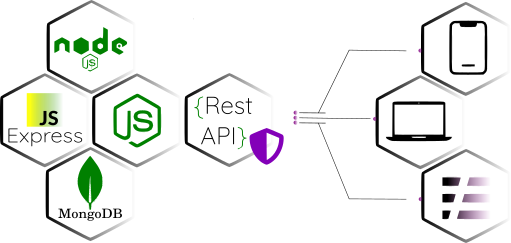
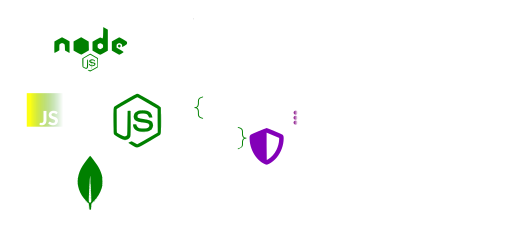
alteracao de cores e mudanda area projetos

diff --git a/src/app/ui/dashboard/projetos.tsx b/src/app/ui/dashboard/projetos.tsx
@@ -42,30 +42,29 @@ export default function Projetos(){
     }
 
     return (
-        <div id="Projetos" className='border-l-2 border-ws-new text-7xl flex w-screen justify-center'>
+        <section className="text-white text-7xl w-screen h-screen justify-center items-center flex flex-col">
+            <div className="w-4/5 flex justify-end">Projetos</div>
+            <div id="Projetos" className='border-l-2 border-ws-new flex w-11/12 h-screen justify-around items-center flex-wrap'>
 
             <div onClick={()=>{ActiveProjeto('Portifolio')}} 
-                className={`${statePortifolio === 1?'animate-open_conteiner w-full overflow-clip cursor-pointer rounded-lg mx-2 flex  h-[80vh] bg-gradient-to-b from-transparent via-45% via-ws-new to-transparent items-center justify-center': 
-                                statePortifolio === 0?'w-64 max-sm:w-9 cursor-pointer rounded-lg mx-2 flex  h-[80vh] bg-gradient-to-b from-transparent via-45% via-ws-new to-transparent items-center justify-center': 
+                className={`${statePortifolio === 1?'animate-open_conteiner w-full overflow-clip cursor-pointer rounded-lg mx-2 flex  h-[80vh] items-center justify-center': 
+                                statePortifolio === 0?'w-52 cursor-pointer mx-2 flex h-[30vh] p-2 bg-ws-c': 
                                 statePortifolio ===2? 'hidden':''}`}>
-                <div className={`${statePortifolio === 1?'hidden': statePortifolio === 0?'rotate-[90deg] text-black max-sm:text-2xl  max-sm:font-bold -tracking-wide':''}`}>Portifolio</div>
+
+                <div className={`${statePortifolio === 1?'hidden': statePortifolio === 0?'flex w-full h-full justify-center items-end rotate-[90deg] bg-ws-new text-2xl text-black font-bold -tracking-wide':''}`}>Portifolio</div>
+
                 <div className={`${statePortifolio === 1?'block': statePortifolio === 0?'hidden':''}`}><InfoProjeto /></div>
+
             </div>
 
-            <div onClick={()=>{ActiveProjeto('RestAPI')}} className={`${stateRest === 1?'animate-open_conteiner w-full overflow-hidden cursor-pointer rounded-lg mx-2 flex  h-[80vh] bg-gradient-to-b from-transparent via-45% via-ws-new to-transparent items-center justify-center': 
-                stateRest === 0?'w-64 max-sm:w-9 cursor-pointer rounded-lg mx-2 flex  h-[80vh] bg-gradient-to-b from-transparent via-45% via-ws-new to-transparent items-center justify-center': 
+            <div onClick={()=>{ActiveProjeto('RestAPI')}} className={`${stateRest === 1?'animate-open_conteiner w-full overflow-hidden cursor-pointer rounded-lg mx-2 flex  h-[80vh] items-center justify-center': 
+                stateRest === 0?'cursor-pointer w-52 mx-2 flex  h-[30vh] p-2 items-start bg-ws-c': 
                 stateRest ===2? 'hidden':''}`}>
-                <div className={`${stateRest === 1?'hidden': stateRest === 0?'rotate-[90deg] max-sm:text-2xl text-black  max-sm:font-bold -tracking-wide':''}`}>RestAPI</div>
+                <div className={`${stateRest === 1?'hidden': stateRest === 0?'flex w-full h-full justify-center items-end rotate-[90deg] bg-ws-new text-2xl text-black font-bold -tracking-wide':''}`}>APIRestFull</div>
                 <div className={`${stateRest === 1?'block': stateRest === 0?'hidden':''}`}><RestAPI/></div>
             </div>
-
-            {/* <div className='w-64 cursor-pointer rounded-lg mx-2 flex  h-[80vh] bg-gradient-to-b from-transparent via-45% via-white to-transparent items-center justify-center'>
-                <div className='rotate-[90deg] -tracking-wide'>Breve</div>
-            </div>
-
-            <div className='w-64 cursor-pointer rounded-lg mx-2 flex  h-[80vh] bg-gradient-to-b from-transparent via-45% via-white to-transparent items-center justify-center'>
-                <div className='rotate-[90deg] -tracking-wide'>Breve</div>
-            </div> */}
         </div>
+        </section>
+
     )
 }

diff --git a/src/app/ui/dashboard/projetos/first_portifolio.tsx b/src/app/ui/dashboard/projetos/first_portifolio.tsx
@@ -9,7 +9,7 @@ export default function InfoProjeto(){
 
     return(
 
-        <div  className='text-lg  text-black mx-3'>
+        <div  className='text-lg  text-white mx-3'>
                 
             <div className={`grid grid-cols-2 grid-rows-1 justify-center items-center`}>
                 <Image src='/page.png' width={350} height={350} className='max-md:w-64 max-sm:w-36 max-[375px]:w-24' alt='First image my portifolio'/>
@@ -17,10 +17,10 @@ export default function InfoProjeto(){
             </div>
             
             <div className='flex justify-around text-xl max-md:text-sm max-sm:text-xs max-sm:flex-wrap py-5 max-[320px]:py-1' >
-                <span className='flex flex-row justify-center items-center max-sm:my-2'><FaJs/> : JavaScript</span>
-                <span className='flex flex-row justify-center items-center max-sm:my-2'><FaHtml5/> : Hypertext Markup Language</span>
-                <span className='flex flex-row justify-center items-center max-sm:my-2'><FaCss3/> : Cascading Style Sheets</span>
-                <span className='flex flex-row justify-center items-center max-sm:my-2'><FaReact/> : React</span>
+                <span className='flex flex-row justify-center items-center max-sm:my-2'><span className='text-ws-new'><FaJs/></span> : JavaScript</span>
+                <span className='flex flex-row justify-center items-center max-sm:my-2'><span className='text-ws-new'><FaHtml5/></span> : Hypertext Markup Language</span>
+                <span className='flex flex-row justify-center items-center max-sm:my-2'><span className='text-ws-new'><FaCss3/></span> : Cascading Style Sheets</span>
+                <span className='flex flex-row justify-center items-center max-sm:my-2'><span className='text-ws-new'><FaReact/></span> : React</span>
             </div>
 
             <div className='text-center text-lg max-md:text-sm max-sm:text-xs max-[320px]:text-[10px]' >
@@ -35,7 +35,7 @@ export default function InfoProjeto(){
                 
             </div>
 
-            <div className='flex py-5 text-2xl max-md:text-base max-[320px]:text-sm justify-center items-center'><FaLink onClick={Falin}/> <p onClick={Falin}>: https://wennedsilva.netlify.app/</p></div>
+            <div className='flex py-5 text-2xl max-md:text-base max-[320px]:text-sm justify-center items-center text-ws-new'><FaLink onClick={Falin}/> <p className='text-white' onClick={Falin}>: https://wennedsilva.netlify.app/</p></div>
         </div>     
     )
 };

diff --git a/src/app/ui/dashboard/projetos/restapi.tsx b/src/app/ui/dashboard/projetos/restapi.tsx
@@ -10,7 +10,7 @@ export default function RestAPI (){
     }
 
     return (
-        <div className='text-lg text-black mx-3'>
+        <div className='text-lg text-white mx-3'>
             
             <div className={`grid grid-cols-2 grid-rows-1 justify-center items-center max-sm:flex max-sm:flex-col`}>
                 <Image src='/restap.png' width={400} height={400} className='max-sm:w-48 max-md:w-64 max-[375px]:w-32' alt='First image restapi'/>
@@ -18,9 +18,9 @@ export default function RestAPI (){
             </div>
 
             <div className='flex justify-around text-xl py-5 max-sm:text-xs max-[375px]:py-1' >
-                <span className='flex flex-row justify-center items-center'><FaNodeJs/> : Node.JS</span>
-                <span className='flex flex-row justify-center items-center'><BiLogoMongodb/> : MongoDB</span>
-                <span className='flex flex-row justify-center items-center'><SiExpress/> : Express</span>
+                <span className='flex flex-row justify-center items-center'><span className='text-ws-new'><FaNodeJs/></span> : Node.JS</span>
+                <span className='flex flex-row justify-center items-center'><span className='text-ws-new'><BiLogoMongodb/></span> : MongoDB</span>
+                <span className='flex flex-row justify-center items-center'><span className='text-ws-new'><SiExpress/></span> : Express</span>
             </div>
 
             <div className='text-center text-xl max-md:text-sm max-sm:text-xs max-[375px]:text-[10px]'>
@@ -34,7 +34,7 @@ export default function RestAPI (){
 
             </div>
         
-            <div className='flex py-5 text-xl max-sm:text-xs max-md:text-base max-[375px]:text-[10px] justify-center items-center'><FaLink onClick={Falin}/> <p onClick={Falin}>: https://github.com/wenned/API-NODE-MONGODB</p></div>
+            <div className='flex py-5 text-xl max-sm:text-xs max-md:text-base max-[375px]:text-[10px] justify-center items-center text-ws-new'><FaLink onClick={Falin}/> <p className='text-white' onClick={Falin}>: https://github.com/wenned/API-NODE-MONGODB</p></div>
 
         </div>
     )

diff --git a/tailwind.config.ts b/tailwind.config.ts
@@ -17,7 +17,7 @@ const config: Config = {
        colors: {
         'ws-hov':'#E3DCA1',
         'ws-l': '#f0c27b',
-        'ws-c': '#B55EA5',
+        'ws-c': '#c2c2c2',
         'ws-body': '#1c1c24',
         'ws-new':'#07edadff'
       },
